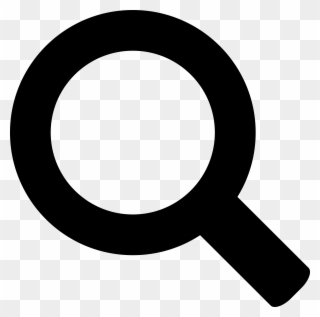
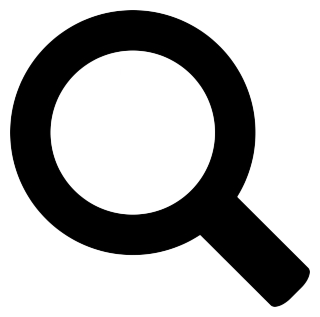
moblie styles

diff --git a/css/style.css b/css/style.css
@@ -1,1 +1,1 @@
-@import url("https://fonts.googleapis.com/css2?family=Quicksand:wght@400;700&display=swap");@import url("https://fonts.googleapis.com/css2?family=Balsamiq+Sans&display=swap");html{font-size:10px}body{background:url("http://localhost:8888/irc/wp-content/themes/clean-slate/img/mountains.jpg") no-repeat 100%/100% fixed;color:#f1f3f4;font-family:"Quicksand",sans-serif;font-size:1.2rem;margin:0;padding:0;line-height:100%;letter-spacing:0.02em;height:100%;width:100%}@media only screen and (min-width: 768px){body{font-size:1.4rem}}@media only screen and (min-width: 1024px){body{font-size:1.6rem}}.wrapper{width:100%;height:100%;display:block;background:rgba(0,0,0,0.83);padding-top:6rem}h1{font-size:2.5rem;font-weight:bold;font-family:"Balsamiq Sans",cursive;letter-spacing:0.02em;line-height:100%}@media only screen and (min-width: 768px){h1{font-size:3.5rem}}@media only screen and (min-width: 1024px){h1{font-size:4.5rem}}h2{font-size:1.5rem;font-weight:bold;font-family:"Balsamiq Sans",cursive}@media only screen and (min-width: 768px){h2{font-size:1.8rem}}@media only screen and (min-width: 1024px){h2{font-size:2.5rem}}h3{font-size:1.2rem;font-weight:bold}@media only screen and (min-width: 768px){h3{font-size:1.6rem}}@media only screen and (min-width: 1024px){h3{font-size:1.8rem}}.irc-btn{padding:1rem;background-color:#368F8B;display:table;text-transform:uppercase;text-decoration:none;color:#f1f3f4;font-family:"Arial Black", serif;letter-spacing:0.05em}@media only screen and (min-width: 768px){.irc-btn{padding:1.2rem}}@media only screen and (min-width: 1024px){.irc-btn{padding:1.6rem}}.irc-btn-red{background-color:#b22222}.irc-btn-green{background-color:#368F8B}.nav{background:rgba(0,0,0,0.7);width:100%;height:6rem;display:block;position:fixed;margin:0 auto;z-index:100;color:#f1f3f4}.nav a{color:#f1f3f4;text-transform:uppercase;text-decoration:none;padding:1.5rem 0.5rem}.nav a:hover,.nav a:focus{text-decoration:underline}.nav .menu{width:auto;display:inline-block;margin-right:7rem;margin-left:auto}.nav .menu ul{list-style-type:none;text-align:right}.nav li.page_item{display:inline-block;margin:1rem 2rem}.nav li.page_item.current_page_item a{color:#368F8B}.nav li.page_item.current_page_item a:hover,.nav li.page_item.current_page_item a:focus{text-decoration:none;cursor:default}.nav .search{width:3rem;height:100%;background:url("http://localhost:8888/irc/wp-content/themes/clean-slate/img/search.png") no-repeat 100%/100%;filter:invert(89%) sepia(2%) saturate(117%) hue-rotate(155deg) brightness(108%) contrast(96%);border:none;float:right;margin-right:5rem;outline:none;cursor:pointer}.nav .search:focus{outline:none}.nav .site-icon{display:inline-block;height:100%;width:7rem;margin-left:7rem;vertical-align:top;background:url("http://localhost:8888/irc/wp-content/themes/clean-slate/img/icon.png") no-repeat 100%/100%;filter:invert(89%) sepia(2%) saturate(117%) hue-rotate(155deg) brightness(108%) contrast(96%)}.nav .site-icon a{padding:0}.footer{width:100%;height:70rem;display:block;margin-top:4rem}.jumbotron--large{width:100%;max-width:220rem;overflow:hidden;margin:0 auto 2rem;display:block;position:relative}@media only screen and (min-width: 768px){.jumbotron--large{margin-bottom:2.4rem}}@media only screen and (min-width: 1024px){.jumbotron--large{margin-bottom:3.2rem}}.jumbotron--title{color:#f1f3f4;position:absolute;bottom:2rem;right:2rem;text-shadow:1px 1px #262626}@media only screen and (min-width: 768px){.jumbotron--title{bottom:2.4rem;right:2.4rem}}@media only screen and (min-width: 1024px){.jumbotron--title{bottom:3.2rem;right:3.2rem}}.jumbotron--img{width:100%;height:100%}.jumbotron--img img{width:100%;height:100%;max-height:90rem;display:block;object-fit:cover}.jumbotron--featured{width:100%;text-align:center}.blog .jumbotron--img.default{height:40rem;display:block}.home .jumbotron--large{margin-bottom:0}.single--race{width:100%;position:relative}.single--race-article{max-width:80rem;text-align:left;margin:0 auto;padding:2.4rem;background-color:rgba(205,205,205,0.2)}.single--race-post{margin:3.2rem auto;line-height:140%;letter-spacing:0.03em}.race--details{background-color:rgba(205,205,205,0.2);position:relative;margin:2rem auto;overflow:hidden;color:#f1f3f4}@media only screen and (min-width: 768px){.race--details{margin:2.4rem auto}}@media only screen and (min-width: 1024px){.race--details{margin:3.2rem auto}}.race--details--show,.race--details--show-more{padding:2rem}@media only screen and (min-width: 768px){.race--details--show,.race--details--show-more{padding:2.4rem}}@media only screen and (min-width: 1024px){.race--details--show,.race--details--show-more{padding:3.2rem}}.race--details--btn,.race--details--btn-less{border:none;width:100%;text-align:center;font-size:1rem;padding:0.5rem;cursor:pointer;position:absolute;bottom:0;left:0}.race--details--btn-less{display:none}.race--details--more{min-height:2rem}.race--details--show-more{height:0;opacity:0}.cancelled{position:fixed;width:100vw;height:100vh;font-width:bold;z-index:10000}@media only screen and (min-width: 768px){.cancelled{width:75vw;left:12.5vw}}@media only screen and (min-width: 768px){.cancelled{width:50vw;left:25vw}}.cancelled--header{color:#b22222;border-radius:1rem;border:0.3rem solid #b22222;padding:2.5rem;font-size:3.2rem;font-weight:bold;margin-top:20vh;transform:rotate(45deg);text-align:center;text-transform:uppercase}@media only screen and (min-width: 768px){.cancelled--header{padding:6rem;font-size:7.5rem;border:1rem solid #b22222;margin-top:30vh}}.race{width:90vw;max-width:140rem;height:37.5rem;overflow:hidden;display:grid;grid-template-columns:repeat(4, 1fr);grid-gap:2rem;margin:0 auto;padding:2rem 0;color:#f1f3f4}@media only screen and (min-width: 768px){.race{grid-gap:2.4rem}}@media only screen and (min-width: 1024px){.race{grid-gap:3.2rem}}.race picture{height:100%}.race picture{grid-column:span 3}.race-container{grid-column:span 1}.race .race-container{vertical-align:top;position:relative}.race .header{text-shadow:none;line-height:130%;text-align:right}.race--odd .header{text-align:left}.race--even{text-align:right}.race--even .race--info{margin-right:0;margin-left:auto}.race--info{margin-bottom:5rem;width:17rem;line-height:2.3rem}.race--info b{font-size:1.8rem}.race .cancelled{position:absolute;width:30rem;height:5rem;left:0;top:15rem;margin:0;padding:0}.race .cancelled--header{margin:0;padding:1rem;font-size:2.5rem;border:0.5rem solid #b22222}.race .irc-cta{width:75%;display:block;text-align:center;color:#f1f3f4;padding:1rem;margin:2rem auto;cursor:pointer;text-transform:uppercase;text-decoration:none;letter-spacing:0.03em}.race .irc-cta:hover{background-color:#CDCDCD;color:#262626}.race .irc-cta-white{border:1px solid #CDCDCD;color:#f1f3f4}.race .irc-cta-white:hover{background-color:#CDCDCD;color:#262626}.ticker{width:100%;font-size:3.2rem;text-transform:uppercase;text-align:center;background-color:rgba(205,205,205,0.2)}.ticker--value{display:inline-block;padding:2rem 3.5rem;cursor:pointer}.ticker--value:hover{background-color:rgba(205,205,205,0.4)}.sr-pagination{width:100%;display:none}@media only screen and (min-width: 768px){.sr-pagination{display:block;margin-top:6rem}}.sr-pagination--mobile{display:block}@media only screen and (min-width: 768px){.sr-pagination--mobile{display:none}}.sr-pagination__items{display:flex;flex-wrap:wrap;justify-content:center;padding:0;margin:0}.sr-pagination__item{list-style:none}.sr-pagination__item .page-numbers:not(.next):not(.prev){display:none;justify-content:center;align-items:center;transition:300ms box-shadow cubic-bezier(0.4, 0, 0.6, 1);text-decoration:none;width:5rem;overflow:hidden;height:51px;color:#f1f3f4}@media only screen and (min-width: 768px){.sr-pagination__item .page-numbers:not(.next):not(.prev){display:flex}}.sr-pagination__item .page-numbers:not(.next):not(.prev):focus,.sr-pagination__item .page-numbers:not(.next):not(.prev):hover{outline:none;background:#368F8B;color:#f1f3f4;text-decoration:none}.search-results__pagination-li.active .sr-pagination__item .page-numbers:not(.next):not(.prev){background:#368F8B;color:#f1f3f4}.sr-pagination__item.active .page-numbers:not(.next):not(.prev){background:#368F8B;color:#f1f3f4}.sr-pagination__item .page-numbers.next .icon-arrow,.sr-pagination__item .page-numbers.prev .icon-arrow{display:inline-block;width:26px;height:50px;filter:#368F8B}.sr-pagination__item .page-numbers.next .icon-arrow{margin-left:6px}.sr-pagination__item .page-numbers.prev .icon-arrow{transform:rotate(180deg);margin-right:6px}.sr-pagination__info{list-style:none;margin:0 5px 20px;display:flex;justify-content:center;align-items:center;font-size:18px;color:#f1f3f4 strong;color-margin:0 5px}.sr-only{position:absolute;width:1px;height:1px;padding:0;margin:-1px;overflow:hidden;clip:rect(0, 0, 0, 0);border:0}.s-results__link{color:#000}.s-results__link:hover{color:#f1f3f4;text-decoration:none}
+@import url("https://fonts.googleapis.com/css2?family=Quicksand:wght@400;700&display=swap");@import url("https://fonts.googleapis.com/css2?family=Balsamiq+Sans&display=swap");html{font-size:10px}body{background:url("http://localhost:8888/irc/wp-content/themes/clean-slate/img/mountains.jpg") no-repeat 100%/100% 100% fixed;color:#f1f3f4;font-family:"Quicksand",sans-serif;font-size:1.2rem;margin:0;padding:0;line-height:100%;letter-spacing:0.02em;height:100%;width:100%}@media only screen and (min-width: 768px){body{font-size:1.4rem}}@media only screen and (min-width: 1024px){body{font-size:1.6rem}}.wrapper{width:100%;height:100%;display:block;background:rgba(0,0,0,0.83);padding-top:6rem}h1{font-size:2.5rem;font-weight:bold;font-family:"Balsamiq Sans",cursive;letter-spacing:0.02em;line-height:100%}@media only screen and (min-width: 768px){h1{font-size:3.5rem}}@media only screen and (min-width: 1024px){h1{font-size:4.5rem}}h2{font-size:1.5rem;font-weight:bold;font-family:"Balsamiq Sans",cursive}@media only screen and (min-width: 768px){h2{font-size:1.8rem}}@media only screen and (min-width: 1024px){h2{font-size:2.5rem}}h3{font-size:1.2rem;font-weight:bold}@media only screen and (min-width: 768px){h3{font-size:1.6rem}}@media only screen and (min-width: 1024px){h3{font-size:1.8rem}}.irc-btn{padding:1rem;background-color:#368F8B;display:table;text-transform:uppercase;text-decoration:none;color:#f1f3f4;font-family:"Arial Black", serif;letter-spacing:0.05em}@media only screen and (min-width: 768px){.irc-btn{padding:1.2rem}}@media only screen and (min-width: 1024px){.irc-btn{padding:1.6rem}}.irc-btn-red{background-color:#b22222}.irc-btn-green{background-color:#368F8B}.nav{background:rgba(0,0,0,0.7);width:100%;height:6rem;display:block;position:fixed;margin:0 auto;z-index:100;color:#f1f3f4}.nav.desktop{display:none}@media only screen and (min-width: 1900px){.nav.desktop{display:block}}@media only screen and (min-width: 1900px){.nav.mobile{display:none}}.nav .site-icon{display:inline-block;height:100%;width:5rem;margin-left:2rem;vertical-align:top;background:url("http://localhost:8888/irc/wp-content/themes/clean-slate/img/icon.png") no-repeat 100%/100%;filter:invert(89%) sepia(2%) saturate(117%) hue-rotate(155deg) brightness(108%) contrast(96%)}@media only screen and (min-width: 768px){.nav .site-icon{width:7rem;margin-left:7rem}}.nav .site-icon a{padding:0}.nav a{color:#f1f3f4;text-transform:uppercase;text-decoration:none;padding:1.5rem 0.5rem}.nav a:hover,.nav a:focus{text-decoration:underline}.nav .menu{width:auto;display:inline-block;margin-right:7rem;margin-left:auto}.nav .menu ul{list-style-type:none;text-align:right}.nav li.page_item.current_page_item a{color:#368F8B}.nav li.page_item.current_page_item a:hover,.nav li.page_item.current_page_item a:focus{text-decoration:none;cursor:default}.nav li.page_item.current_page_item a{color:#368F8B}.nav li.page_item.current_page_item a:hover,.nav li.page_item.current_page_item a:focus{text-decoration:none;cursor:default}.nav .search{width:2rem;height:100%;background:url("http://localhost:8888/irc/wp-content/themes/clean-slate/img/search.png") no-repeat 100%/100% transparent;filter:invert(89%) sepia(2%) saturate(117%) hue-rotate(155deg) brightness(108%) contrast(96%);border:none;float:right;margin-right:2rem;outline:none;cursor:pointer}@media only screen and (min-width: 768px){.nav .search{width:3rem}}.nav .search:focus{outline:none}.nav.desktop li.page_item{display:inline-block;margin:1rem 2rem}.nav.mobile .mobile-menu{background:rgba(0,0,0,0.8);width:300px;font-size:2rem;position:absolute;right:-305px}.nav.mobile .page_item{padding:20px;text-align:center;width:100%;font-size:2rem}.nav.mobile .page_item a{padding:1.5rem}.nav.mobile .menu-icon{width:2rem;height:100%;background:url("http://localhost:8888/irc/wp-content/themes/clean-slate/img/hamburger.png") no-repeat 100%/100%;filter:invert(89%) sepia(2%) saturate(117%) hue-rotate(155deg) brightness(108%) contrast(96%);border:none;float:right;margin-right:2rem;outline:none;cursor:pointer}@media only screen and (min-width: 768px){.nav.mobile .menu-icon{width:3rem}}.nav.mobile .menu-icon:focus{outline:none}.footer{width:100%;height:70rem;display:block;margin-top:4rem}.jumbotron--large{width:100%;max-width:220rem;overflow:hidden;margin:0 auto 2rem;display:block;position:relative}@media only screen and (min-width: 768px){.jumbotron--large{margin-bottom:2.4rem}}@media only screen and (min-width: 1024px){.jumbotron--large{margin-bottom:3.2rem}}.jumbotron--title{color:#f1f3f4;position:absolute;bottom:2rem;right:2rem;text-shadow:1px 1px #262626}@media only screen and (min-width: 768px){.jumbotron--title{bottom:2.4rem;right:2.4rem}}@media only screen and (min-width: 1024px){.jumbotron--title{bottom:3.2rem;right:3.2rem}}.jumbotron--img{width:100%;height:100%}.jumbotron--img img{width:100%;height:100%;max-height:90rem;display:block;object-fit:cover}.jumbotron--featured{width:100%;text-align:center}.blog .jumbotron--img.default{height:40rem;display:block}.home .jumbotron--large{margin-bottom:0}.single--race{width:100%;position:relative}.single--race-article{max-width:80rem;text-align:left;margin:0 auto;padding:2.4rem;background-color:rgba(205,205,205,0.2)}.single--race-post{margin:3.2rem auto;line-height:140%;letter-spacing:0.03em}.race--details{background-color:rgba(205,205,205,0.2);position:relative;margin:2rem auto;overflow:hidden;color:#f1f3f4}@media only screen and (min-width: 768px){.race--details{margin:2.4rem auto}}@media only screen and (min-width: 1024px){.race--details{margin:3.2rem auto}}.race--details--show,.race--details--show-more{padding:2rem}@media only screen and (min-width: 768px){.race--details--show,.race--details--show-more{padding:2.4rem}}@media only screen and (min-width: 1024px){.race--details--show,.race--details--show-more{padding:3.2rem}}.race--details--btn,.race--details--btn-less{border:none;width:100%;text-align:center;font-size:1rem;padding:0.5rem;cursor:pointer;position:absolute;bottom:0;left:0}.race--details--btn-less{display:none}.race--details--more{min-height:2rem}.race--details--show-more{height:0;opacity:0}.cancelled{position:fixed;width:100vw;height:100vh;font-width:bold;z-index:10000}@media only screen and (min-width: 768px){.cancelled{width:75vw;left:12.5vw}}@media only screen and (min-width: 768px){.cancelled{width:50vw;left:25vw}}.cancelled--header{color:#b22222;border-radius:1rem;border:0.3rem solid #b22222;padding:2.5rem;font-size:3.2rem;font-weight:bold;margin-top:20vh;transform:rotate(45deg);text-align:center;text-transform:uppercase}@media only screen and (min-width: 768px){.cancelled--header{padding:6rem;font-size:7.5rem;border:1rem solid #b22222;margin-top:30vh}}.race{width:90vw;max-width:140rem;overflow:hidden;display:grid;grid-template-columns:repeat(1, 1fr);grid-gap:2rem;margin:0 auto;padding:2rem 0;color:#f1f3f4}@media only screen and (min-width: 768px){.race{grid-template-columns:repeat(2, 1fr)}}@media only screen and (min-width: 1024px){.race{grid-template-columns:repeat(4, 1fr);height:37.5rem}}@media only screen and (min-width: 768px){.race{grid-gap:2.4rem}}@media only screen and (min-width: 1024px){.race{grid-gap:3.2rem}}.race picture{height:100%}.race picture{grid-column:span 1}@media only screen and (min-width: 768px){.race picture{grid-column:span 1}}@media only screen and (min-width: 1024px){.race picture{grid-column:span 3}}.race-container{grid-column:span 1;vertical-align:top;position:relative}.race .header{text-shadow:none;line-height:130%;text-align:right}.race--odd .race-container{display:none}.race--odd .race-container.mobile{display:block}@media only screen and (min-width: 768px){.race--odd .race-container{display:block}.race--odd .race-container.mobile{display:none}}.race--odd .header{text-align:left}.race--even{text-align:right}.race--even .race--info{margin-right:0;margin-left:auto}.race--info{margin-bottom:5rem;width:17rem;line-height:2.3rem}.race--info b{font-size:1.8rem}.race .cancelled{position:absolute;width:30rem;height:5rem;left:0;top:15rem;margin:0;padding:0}.race .cancelled--header{margin:0;padding:1rem;font-size:2.5rem;border:0.5rem solid #b22222}.race .irc-cta{width:75%;display:block;text-align:center;color:#f1f3f4;padding:1rem;margin:2rem auto;cursor:pointer;text-transform:uppercase;text-decoration:none;letter-spacing:0.03em}.race .irc-cta:hover{background-color:#CDCDCD;color:#262626}.race .irc-cta-white{border:1px solid #CDCDCD;color:#f1f3f4}.race .irc-cta-white:hover{background-color:#CDCDCD;color:#262626}.ticker{width:100%;overflow-y:hidden;font-size:3.2rem;text-transform:uppercase;text-align:center;background-color:rgba(205,205,205,0.2);display:flex;flex-wrap:nowrap}.ticker--value{text-align:center;padding:2rem 3.5rem;cursor:pointer}.ticker--value:hover{background-color:rgba(205,205,205,0.4)}.sr-pagination{width:100%;display:none}@media only screen and (min-width: 768px){.sr-pagination{display:block;margin-top:6rem}}.sr-pagination--mobile{display:block}@media only screen and (min-width: 768px){.sr-pagination--mobile{display:none}}.sr-pagination__items{display:flex;flex-wrap:wrap;justify-content:center;padding:0;margin:0}.sr-pagination__item{list-style:none}.sr-pagination__item .page-numbers:not(.next):not(.prev){display:none;justify-content:center;align-items:center;transition:300ms box-shadow cubic-bezier(0.4, 0, 0.6, 1);text-decoration:none;width:5rem;overflow:hidden;height:5.1rem;color:#f1f3f4}@media only screen and (min-width: 768px){.sr-pagination__item .page-numbers:not(.next):not(.prev){display:flex}}.sr-pagination__item .page-numbers:not(.next):not(.prev):focus,.sr-pagination__item .page-numbers:not(.next):not(.prev):hover{outline:none;background:#368F8B;color:#f1f3f4;text-decoration:none}.search-results__pagination-li.active .sr-pagination__item .page-numbers:not(.next):not(.prev){background:#368F8B;color:#f1f3f4}.sr-pagination__item.active .page-numbers:not(.next):not(.prev){background:#368F8B;color:#f1f3f4}.sr-pagination__item .page-numbers.next .icon-arrow,.sr-pagination__item .page-numbers.prev .icon-arrow{display:inline-block;width:2.6rem;height:5rem;filter:#368F8B}.sr-pagination__item .page-numbers.next .icon-arrow{margin-left:0.6rem}.sr-pagination__item .page-numbers.prev .icon-arrow{transform:rotate(180deg);margin-right:0.6rem}.sr-pagination__info{list-style:none;margin:0 0.5rem 2rem;display:flex;justify-content:center;align-items:center;font-size:1.8rem;color:#f1f3f4 strong;color-margin:0 0.5rem}.sr-only{position:absolute;width:1px;height:1px;padding:0;margin:-1px;overflow:hidden;clip:rect(0, 0, 0, 0);border:0}.s-results__link{color:#000}.s-results__link:hover{color:#f1f3f4;text-decoration:none}

diff --git a/build/scss/nav-menu.scss b/build/scss/nav-menu.scss
@@ -1,5 +1,5 @@
 .nav {
-  background: rgba(0,0,0,0.7);
+  background: rgba(0, 0, 0, 0.7);
   width: 100%;
   height: 6rem;
   display: block;
@@ -7,6 +7,34 @@
   margin: 0 auto;
   z-index: 100;
   color: $white;
+  &.desktop {
+    display: none;
+    @media only screen and (min-width: 1900px) {
+      display: block;
+    }
+  }
+  &.mobile {
+    @media only screen and (min-width: 1900px) {
+      display: none;
+    }
+  }
+  .site-icon {
+    display: inline-block;
+    height: 100%;
+    width: 5rem;
+    margin-left: 2rem;
+    vertical-align: top;
+    background: url('http://localhost:8888/irc/wp-content/themes/clean-slate/img/icon.png') no-repeat 100%/100%;
+    filter: $whitefilter;
+    @media only screen and (min-width: 768px) {
+      width: 7rem;
+      margin-left: 7rem;
+    }
+
+    a {
+      padding: 0;
+    }
+  }
   a {
     color: $white;
     text-transform: uppercase;
@@ -21,14 +49,22 @@
     display: inline-block;
     margin-right: 7rem;
     margin-left: auto;
-  }
-  .menu ul {
-    list-style-type: none;
-    text-align: right;
+
+    ul {
+      list-style-type: none;
+      text-align: right;
+    }
   }
   li.page_item {
-    display: inline-block;
-    margin: 1rem 2rem;
+    &.current_page_item {
+      a {
+        color: $green;
+        &:hover, &:focus {
+          text-decoration: none;
+          cursor: default;
+        }
+      }
+    }
     &.current_page_item {
       a {
         color: $green;
@@ -40,29 +76,61 @@
     }
   }
   .search {
-    width: 3rem;
+    width: 2rem;
     height: 100%;
-    background: url('http://localhost:8888/irc/wp-content/themes/clean-slate/img/search.png') no-repeat 100%/100%;
+    background: url('http://localhost:8888/irc/wp-content/themes/clean-slate/img/search.png') no-repeat 100%/100% transparent;
     filter: $whitefilter;
     border: none;
     float: right;
-    margin-right: 5rem;
+    margin-right: 2rem;
     outline: none;
     cursor: pointer;
+    @media only screen and (min-width: 768px) {
+      width: 3rem;
+    }
     &:focus {
       outline: none;
     }
   }
-  .site-icon {
-    display: inline-block;
-    height: 100%;
-    width: 7rem;
-    margin-left: 7rem;
-    vertical-align: top;
-    background: url('http://localhost:8888/irc/wp-content/themes/clean-slate/img/icon.png') no-repeat 100%/100%;
-    filter: $whitefilter;
-    a {
-      padding: 0;
+  &.desktop {
+    li.page_item {
+      display: inline-block;
+      margin: 1rem 2rem;
+    }
+  }
+  &.mobile {
+    .mobile-menu {
+      background: rgba(0, 0, 0, 0.8);
+      width: 300px;
+      font-size: 2rem;
+      position: absolute;
+      right: -305px;
+    }
+    .page_item {
+      padding: 20px;
+      text-align: center;
+      width: 100%;
+      font-size: 2rem;
+      a {
+        padding: 1.5rem;
+      }
+    }
+    .menu-icon {
+      width: 2rem;
+      height: 100%;
+      background: url('http://localhost:8888/irc/wp-content/themes/clean-slate/img/hamburger.png') no-repeat 100%/100%;
+      filter: $whitefilter;
+      border: none;
+      float: right;
+      margin-right: 2rem;
+      outline: none;
+      cursor: pointer;
+      @media only screen and (min-width: 768px) {
+        width: 3rem;
+      }
+      &:focus {
+        outline: none;
+      }
     }
   }
 }

diff --git a/build/scss/all-races.scss b/build/scss/all-races.scss
@@ -1,10 +1,16 @@
 .race {
   width: 90vw;
   max-width: 140rem;
-  height: 37.5rem;
   overflow: hidden;
   display: grid;
-  grid-template-columns: repeat(4, 1fr);
+  grid-template-columns: repeat(1, 1fr);
+  @media only screen and (min-width:768px) {
+    grid-template-columns: repeat(2, 1fr);
+  }
+  @media only screen and (min-width:1024px) {
+    grid-template-columns: repeat(4, 1fr);
+    height: 37.5rem;
+  }
   grid-gap: 2rem;
   margin: 0 auto;
   padding: 2rem 0;
@@ -19,12 +25,16 @@
     height: 100%
   }
   picture {
-    grid-column: span 3;
+    grid-column: span 1;
+    @media only screen and (min-width: 768px) {
+      grid-column: span 1;
+    }
+    @media only screen and (min-width: 1024px) {
+      grid-column: span 3;
+    }
   }
   &-container {
     grid-column: span 1;
-  }
-  .race-container {
     vertical-align: top;
     position: relative;
 
@@ -35,6 +45,20 @@
     text-align: right;
   }
   &--odd {
+    .race-container {
+      display: none;
+      &.mobile {
+        display: block;
+      }
+    }
+    @media only screen and (min-width: 768px) {
+      .race-container {
+        display: block;
+        &.mobile {
+          display: none;
+        }
+      }
+    }
     .header {
       text-align: left;
     }

diff --git a/js/script.js b/js/script.js
@@ -1,1 +1,1 @@
-function welcome(){console.log("WELCOME TO CANADIAN TRAIL RUNNING, THIS SITE IS 100% CANADIAN OWNED AND OPERATED")}function showMore(){let e=$("#show-more"),o=$("#show-less");e.click(function(){$(this).hide(),$("#show-less").fadeIn(250),$(".race--details--show-more").animate({height:"60px",opacity:1},250)}),o.click(function(){$(this).hide(),$("#show-more").fadeIn(250),$(".race--details--show-more").animate({opacity:0,height:"0px"},250)})}welcome(),showMore();
+function welcome(){console.log("WELCOME TO CANADIAN TRAIL RUNNING, THIS SITE IS 100% CANADIAN OWNED AND OPERATED")}function showMore(){let e=$("#show-more"),o=$("#show-less");e.click(function(){$(this).hide(),$("#show-less").fadeIn(250),$(".race--details--show-more").animate({height:"60px",opacity:1},250)}),o.click(function(){$(this).hide(),$("#show-more").fadeIn(250),$(".race--details--show-more").animate({opacity:0,height:"0px"},250)})}function mobileMenu(){$("#menu-icon").click(function(){let e=$(this),o=$(".mobile-menu");e.hasClass("menu-open")?(e.removeClass("menu-open"),o.animate({right:"-305px"},250)):(e.addClass("menu-open"),o.animate({right:"0"},250))})}welcome(),mobileMenu(),showMore();

diff --git a/build/js/script.js b/build/js/script.js
@@ -1,5 +1,6 @@
 (function(){
     welcome();
+    mobileMenu();
     showMore();
 })();
 
@@ -34,4 +35,23 @@ function showMore(){
 
 
 
+}
+
+function mobileMenu() {
+    var _menubtn = $('#menu-icon');
+    _menubtn.click(function() {
+        let _this = $(this);
+        let _menu = $('.mobile-menu');
+        if (_this.hasClass('menu-open')) {
+            _this.removeClass('menu-open');
+            _menu.animate({
+                right: '-305px',
+            }, 250);
+        } else {
+            _this.addClass('menu-open');
+            _menu.animate({
+                right: '0',
+            }, 250);
+        }
+    });
 }

diff --git a/build/scss/fonts-colours.scss b/build/scss/fonts-colours.scss
@@ -30,7 +30,7 @@ html {
 
 
 body {
-  background: url("http://localhost:8888/irc/wp-content/themes/clean-slate/img/mountains.jpg") no-repeat 100%/100% fixed;
+  background: url("http://localhost:8888/irc/wp-content/themes/clean-slate/img/mountains.jpg") no-repeat 100%/100% 100% fixed;
   color: $white;
   font-family: $sans;
   font-size: 1.2rem;

diff --git a/build/scss/ticker.scss b/build/scss/ticker.scss
@@ -1,11 +1,14 @@
 .ticker {
   width: 100%;
+  overflow-y: hidden;
   font-size: 3.2rem;
   text-transform: uppercase;
   text-align: center;
   background-color: $grey-rgba;
+  display: flex;
+  flex-wrap: nowrap;
   &--value {
-    display: inline-block;
+    text-align: center;
     padding: 2rem 3.5rem;
     cursor: pointer;
     &:hover {

diff --git a/build/scss/pagination.scss b/build/scss/pagination.scss
@@ -39,7 +39,7 @@
       text-decoration: none;
       width: 5rem;
       overflow: hidden;
-      height: 5.1rem
+      height: 5.1rem;
       color: $white;
 
       &:focus,

diff --git a/races.php b/races.php
@@ -1,4 +1,7 @@
 <?php /* Template Name: Listing Page */ ?>
+<?php get_header(); ?>
+<?php if(locate_template('template/jumbotron.php')){ include( 'template/jumbotron.php' );} ?>
+
 <?php
 $display = 3;
 $AllPosts = new AllPosts;
@@ -6,7 +9,6 @@ $posts = $AllPosts->posts('post', $display);
 $pagination = $AllPosts->getPagination(); // Get pagination
 $totalPosts = count($posts);
 ?>
-<?php get_header(); ?>
 
 <?php
     $x = 0;
@@ -15,7 +17,7 @@ foreach ($posts as $key => $post) :?>
         if($x%2 == 0){ ?>
             <section class="race race--even">
                 <?php
-                if(!empty($race['img'])){ echo  output_pictures( set_image_array( array('imageArray' => $race['img'], 'singleImage' => true) ));};
+                 if(!empty($race['img'])){ echo  output_pictures( set_image_array( array('imageArray' => $race['img'], 'singleImage' => true) ));};
                 ?>
                 <aside class="race-container">
                     <?php if(!empty($race['cancelled'])){include(  'template/cancelled.php');} ?>
@@ -30,8 +32,12 @@ foreach ($posts as $key => $post) :?>
                     <?php if(locate_template('template/race-info.php')){ include('template/race-info.php');} ?>
                 </aside>
                 <?php
-                if(!empty($race['img'])){ echo  output_pictures( set_image_array( array('imageArray' => $race['img'], 'singleImage' => true) ));};
+                    if(!empty($race['img'])){ echo  output_pictures( set_image_array( array('imageArray' => $race['img'], 'singleImage' => true) ));};
                 ?>
+                <aside class="race-container mobile">
+                    <?php if(!empty($race['cancelled'])){include(  'template/cancelled.php');} ?>
+                    <?php if(locate_template('template/race-info.php')){ include('template/race-info.php');} ?>
+                </aside>
             </section>
 
         <?php } ?>

diff --git a/lib/post_listing.php b/lib/post_listing.php
@@ -108,8 +108,8 @@ class AllPosts
             'base' => add_query_arg('paged', '%#%'),
             'format' => '?paged=%#%',
             'current' => max(1, $this->getPaged()),
-            'prev_text' => __(' <img class="icon-arrow icon-arrow-prev" aria-hidden="true" alt="Previous Page" src="/content/themes/base/img/icons/arrow-text-link.svg"><span class="sr-only">Previous</span>'),
-            'next_text' => __(' <img class="icon-arrow icon-arrow-next" aria-hidden="true" alt="Next Page" src="/content/themes/base/img/icons/arrow-text-link.svg"><span class="sr-only">Next</span>'),
+            'prev_text' => __(' <img class="icon-arrow icon-arrow-prev" aria-hidden="true" alt="Previous Page" src="http://localhost:8888/irc/wp-content/themes/clean-slate/img/arrow.png"><span class="sr-only">Previous</span>'),
+            'next_text' => __(' <img class="icon-arrow icon-arrow-next" aria-hidden="true" alt="Next Page" src="http://localhost:8888/irc/wp-content/themes/clean-slate/img/arrow.png"><span class="sr-only">Next</span>'),
             'show_all' => false,
             'mid_size' => 3,
             'type' => 'array'

diff --git a/template/jumbotron.php b/template/jumbotron.php
@@ -6,18 +6,14 @@
                 'alt'=> 'I Run Canada',
                 'title'=> 'I Run Canada',
                 'class'=> 'default'));
+
+        echo '<h1 class="jumbotron--title">I Run Canada</h1>';
     }
-    echo '<h1 class="jumbotron--title">I Run Canada</h1>';
     ?>
 
 
     <?php
-    if(!empty($race)){
-//       $foo =  set_image_array( array('imageArray' => $race['img'], 'singleImage' => true) );
-//        print_r($foo);
-        if(!empty($race['img'])){ echo  output_pictures( set_image_array( array('imageArray' => $race['img'], 'singleImage' => true) ), 'staggered--images-main', 0);};
-
-       // printImg($race['img']); ?>
+    if(!empty($race)){if(!empty($race['img'])){ echo  output_pictures( set_image_array( array('imageArray' => $race['img'], 'singleImage' => true) ), 'staggered--images-main', 0);}; ?>
         <h1 class="jumbotron--title"><?php the_title(); ?></h1>
         <?php if(!empty($race['regLink']['url'])):
             $btn = (!empty($race['regCol']))? " irc-btn-{$race['regCol']}":" irc-btn-green";

diff --git a/header.php b/header.php
@@ -8,9 +8,20 @@
     <link href="<?php bloginfo('stylesheet_url'); ?>" rel = "stylesheet">
 </head>
 <body <?php body_class(); ?>>
-    <nav class="nav" id="menu">
+    <nav class="nav desktop" id="menu">
         <a href="<?= get_home_url(); ?>"><i class="site-icon"></i></a>
         <?php wp_nav_menu( array( 'theme_location' => 'main-menu' ) ); ?>
         <button class="search"></button>
     </nav>
+
+    <nav class="nav mobile" id="menu">
+        <a href="<?= get_home_url(); ?>"><i class="site-icon"></i></a>
+        <aside class="mobile-menu">
+
+            <?php wp_nav_menu( array( 'theme_location' => 'main-menu' ) ); ?>
+        </aside>
+        <button class="menu-icon" id="menu-icon"></button>
+        <button class="search"></button>
+    </nav>
+
     <div class="wrapper" >
